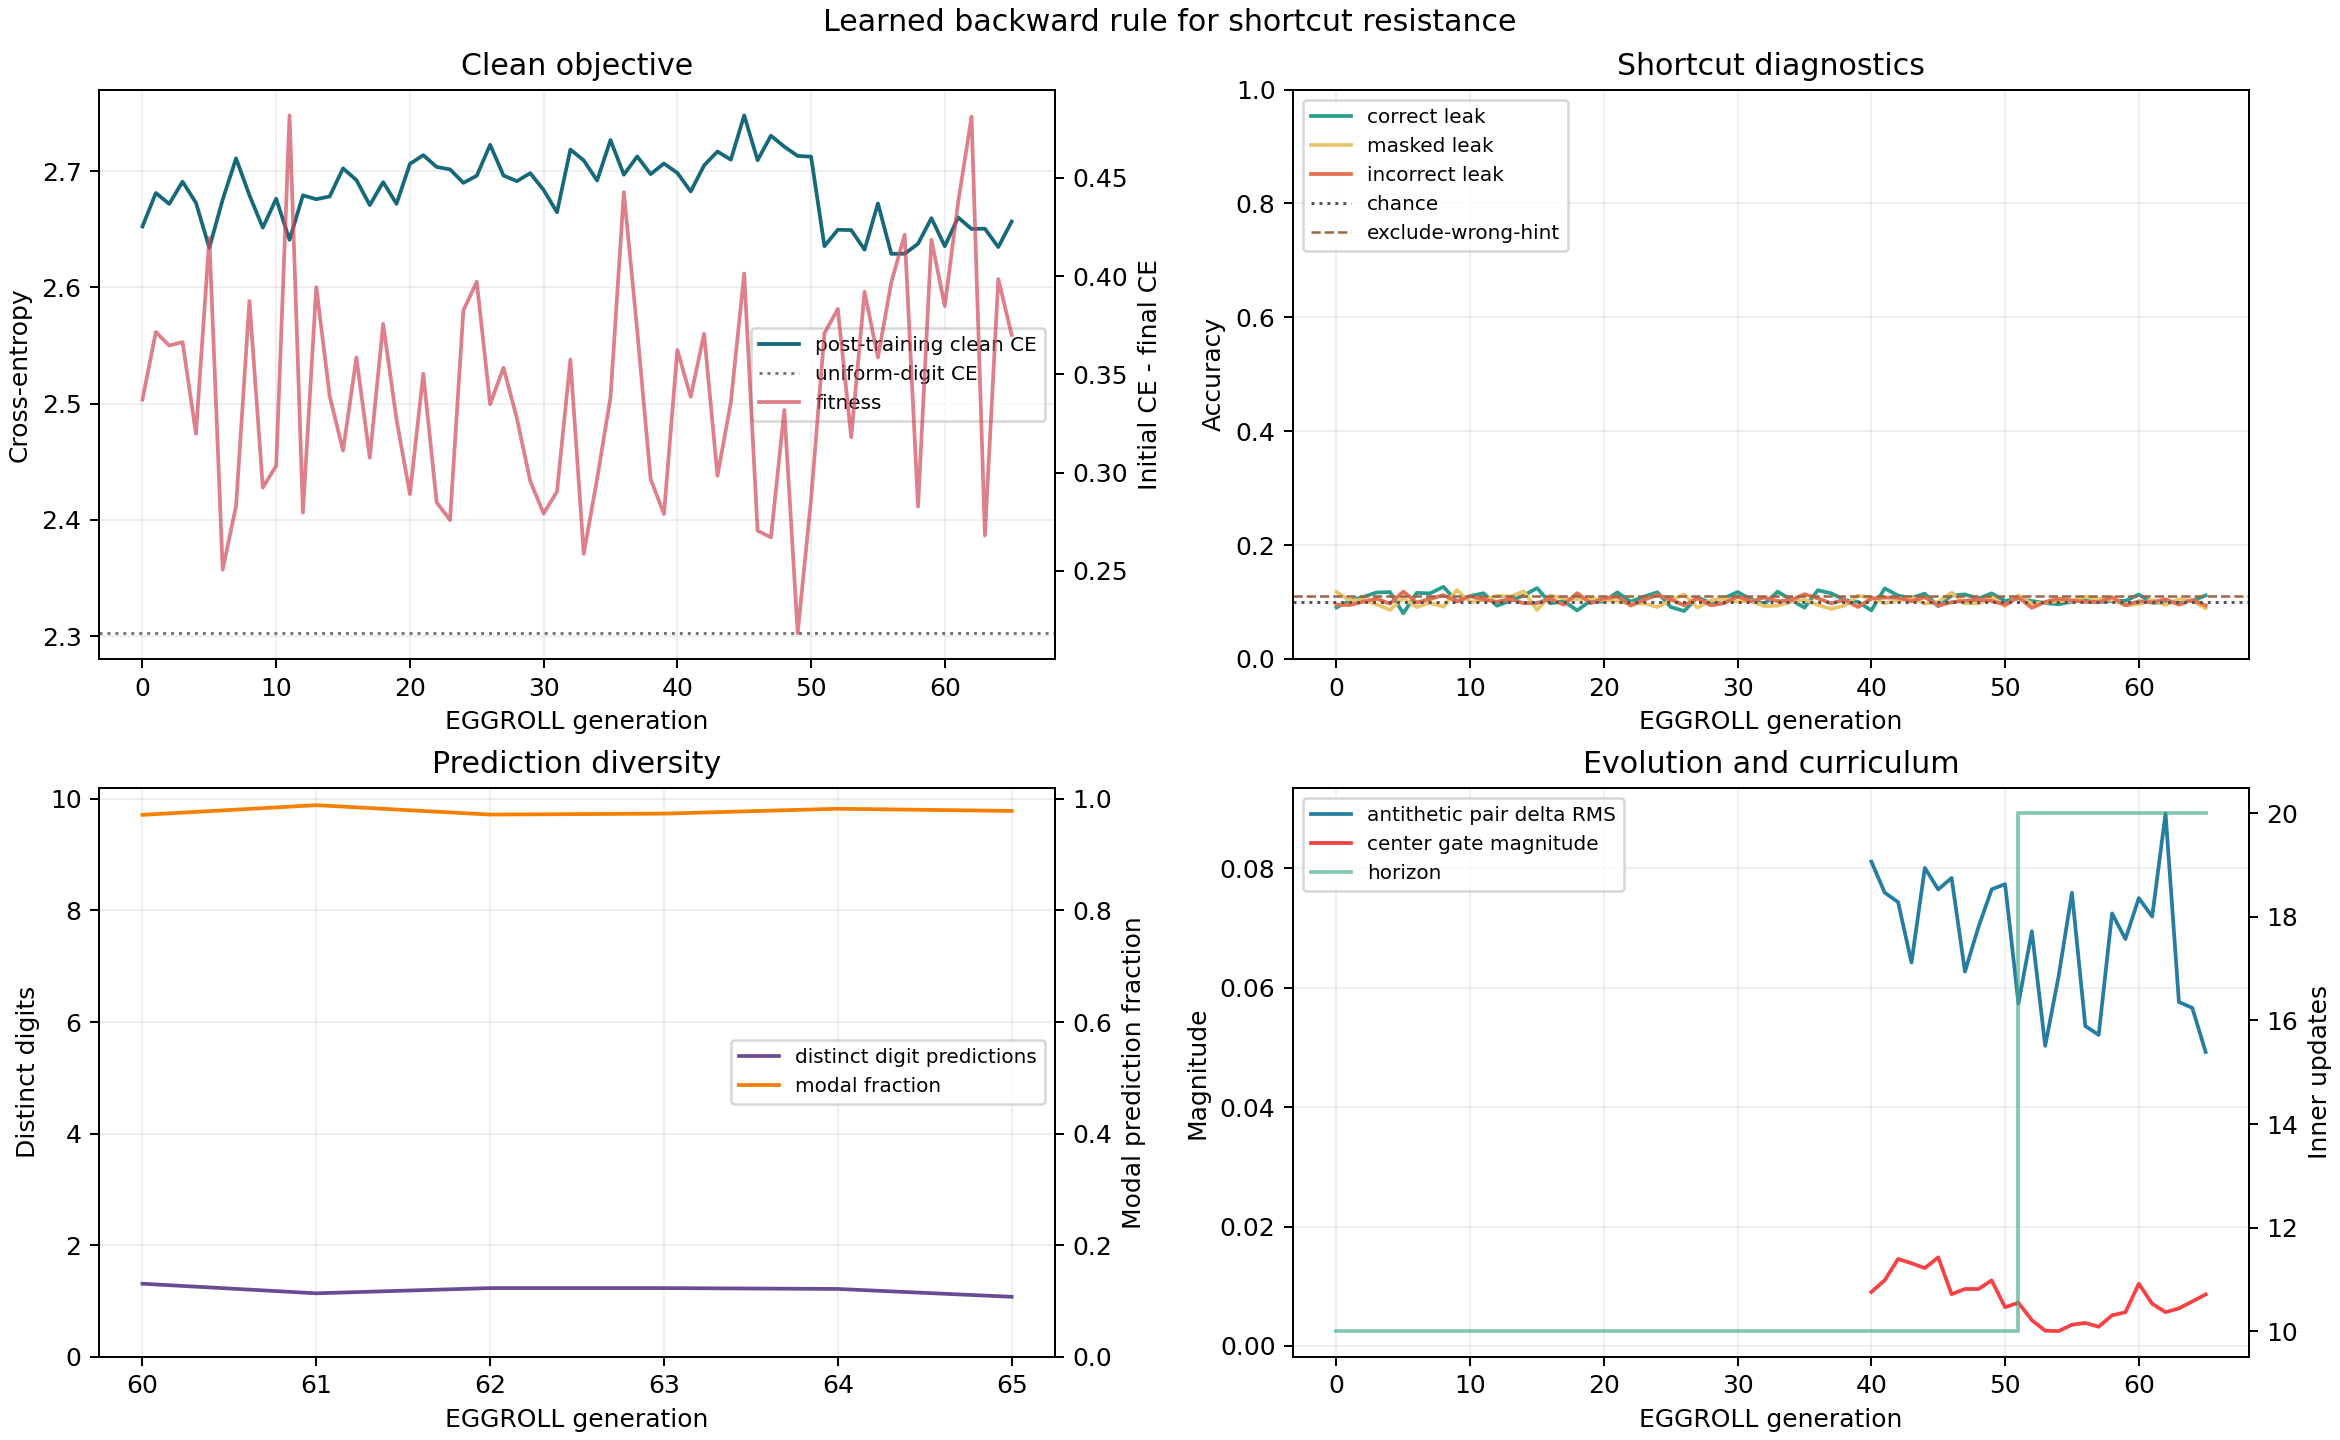
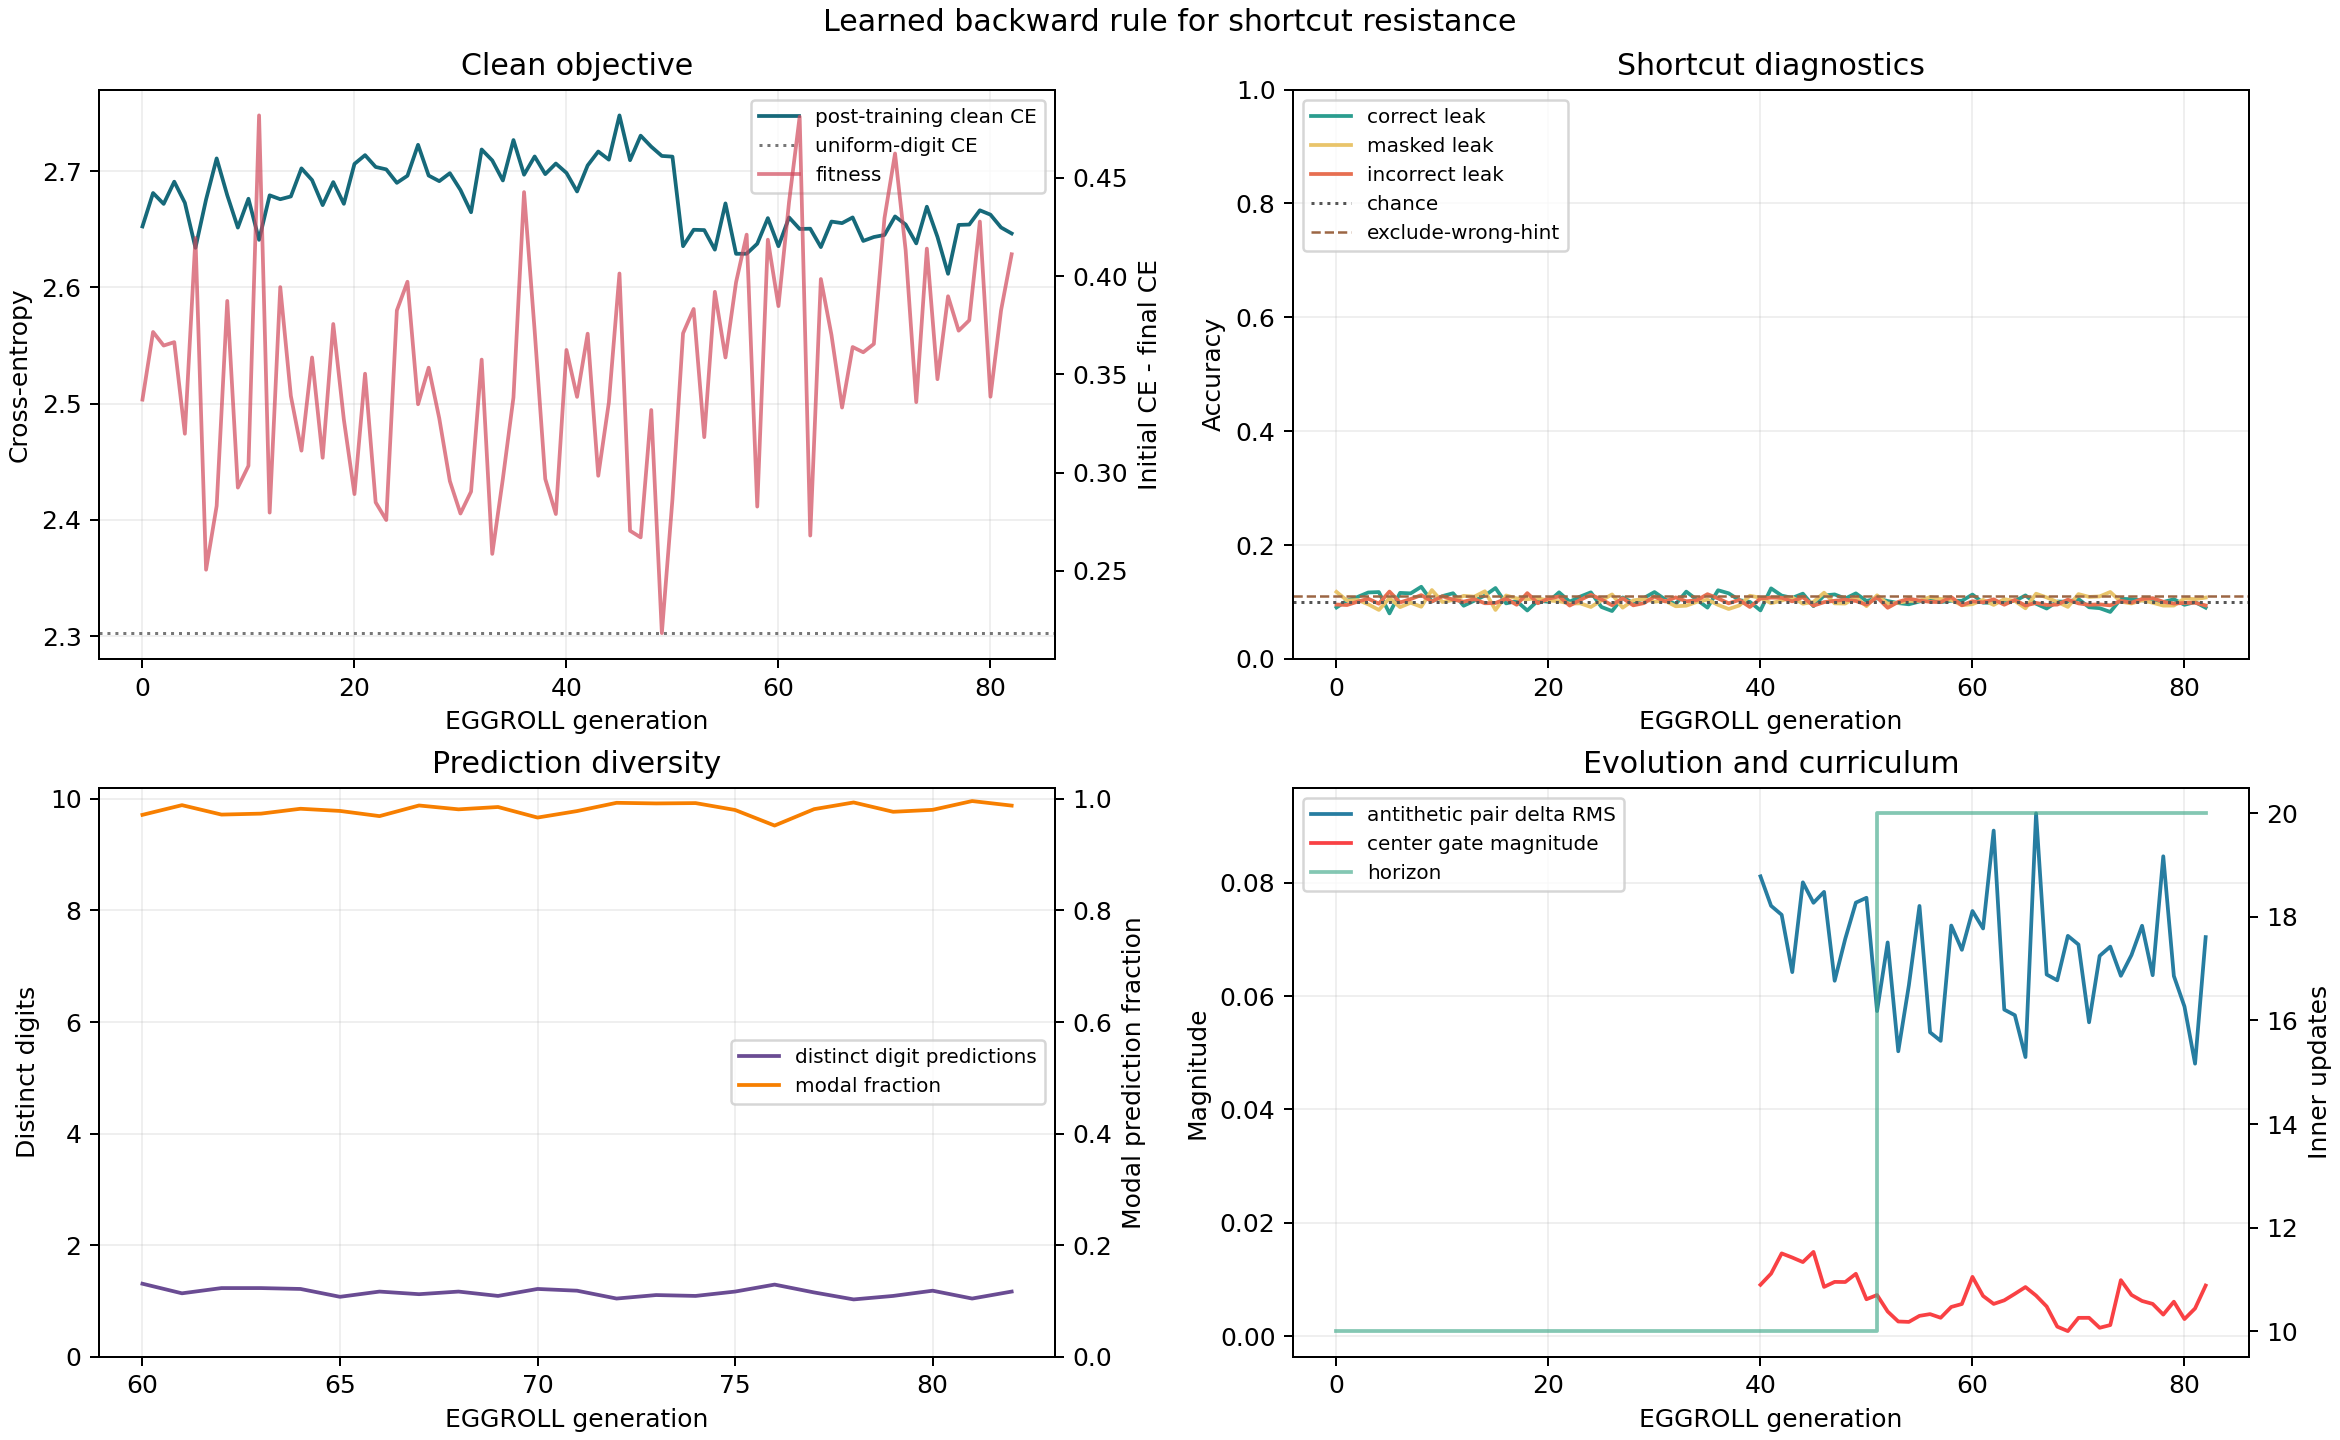
Record packed rollout parity

diff --git a/experiments/learned_backward_shortcuts/PROGRESS.md b/experiments/learned_backward_shortcuts/PROGRESS.md
@@ -350,3 +350,15 @@ A focused test also compares packed query logits against separate unpadded
 forwards across different lengths. The optimization will be adopted from the
 next durable checkpoint; it does not alter the training batches or EGGROLL
 estimator.
+
+The generation-80 checkpoint was replayed end to end after adopting the packed
+evaluator:
+
+- Original generation time: `35.9s`.
+- Packed-evaluation generation time: `27.1s` (`24.6%` faster).
+- Fitness mean changed by only `3e-8`.
+- Clean CE and all reported accuracies were identical at displayed precision.
+- Continued run:
+  [`learned-backward-p64-packed-resume80-seed7`](https://wandb.ai/wobrob101/list-sorting-learned-backward/runs/hhw7gu1w)
+
+The packed run is therefore the authoritative trajectory from generation 80.
